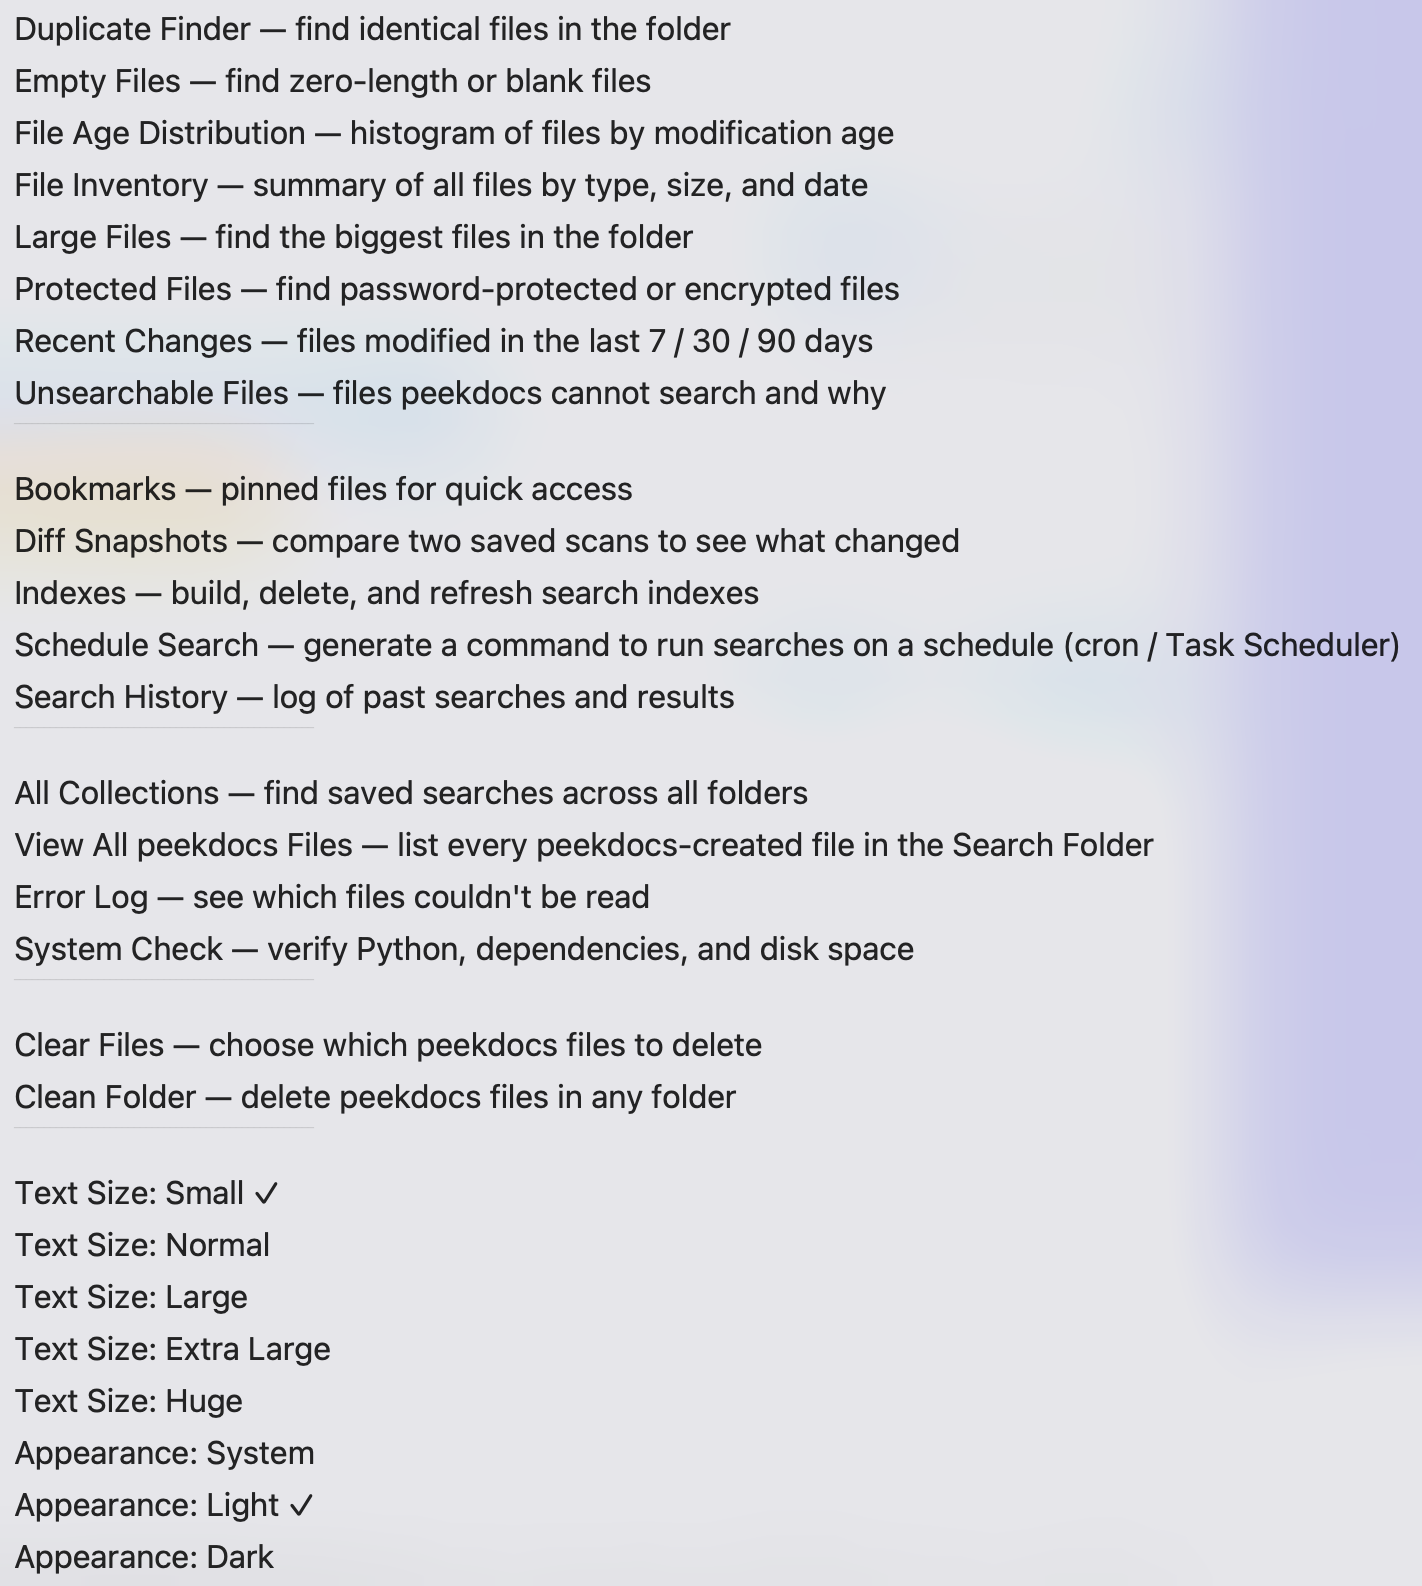
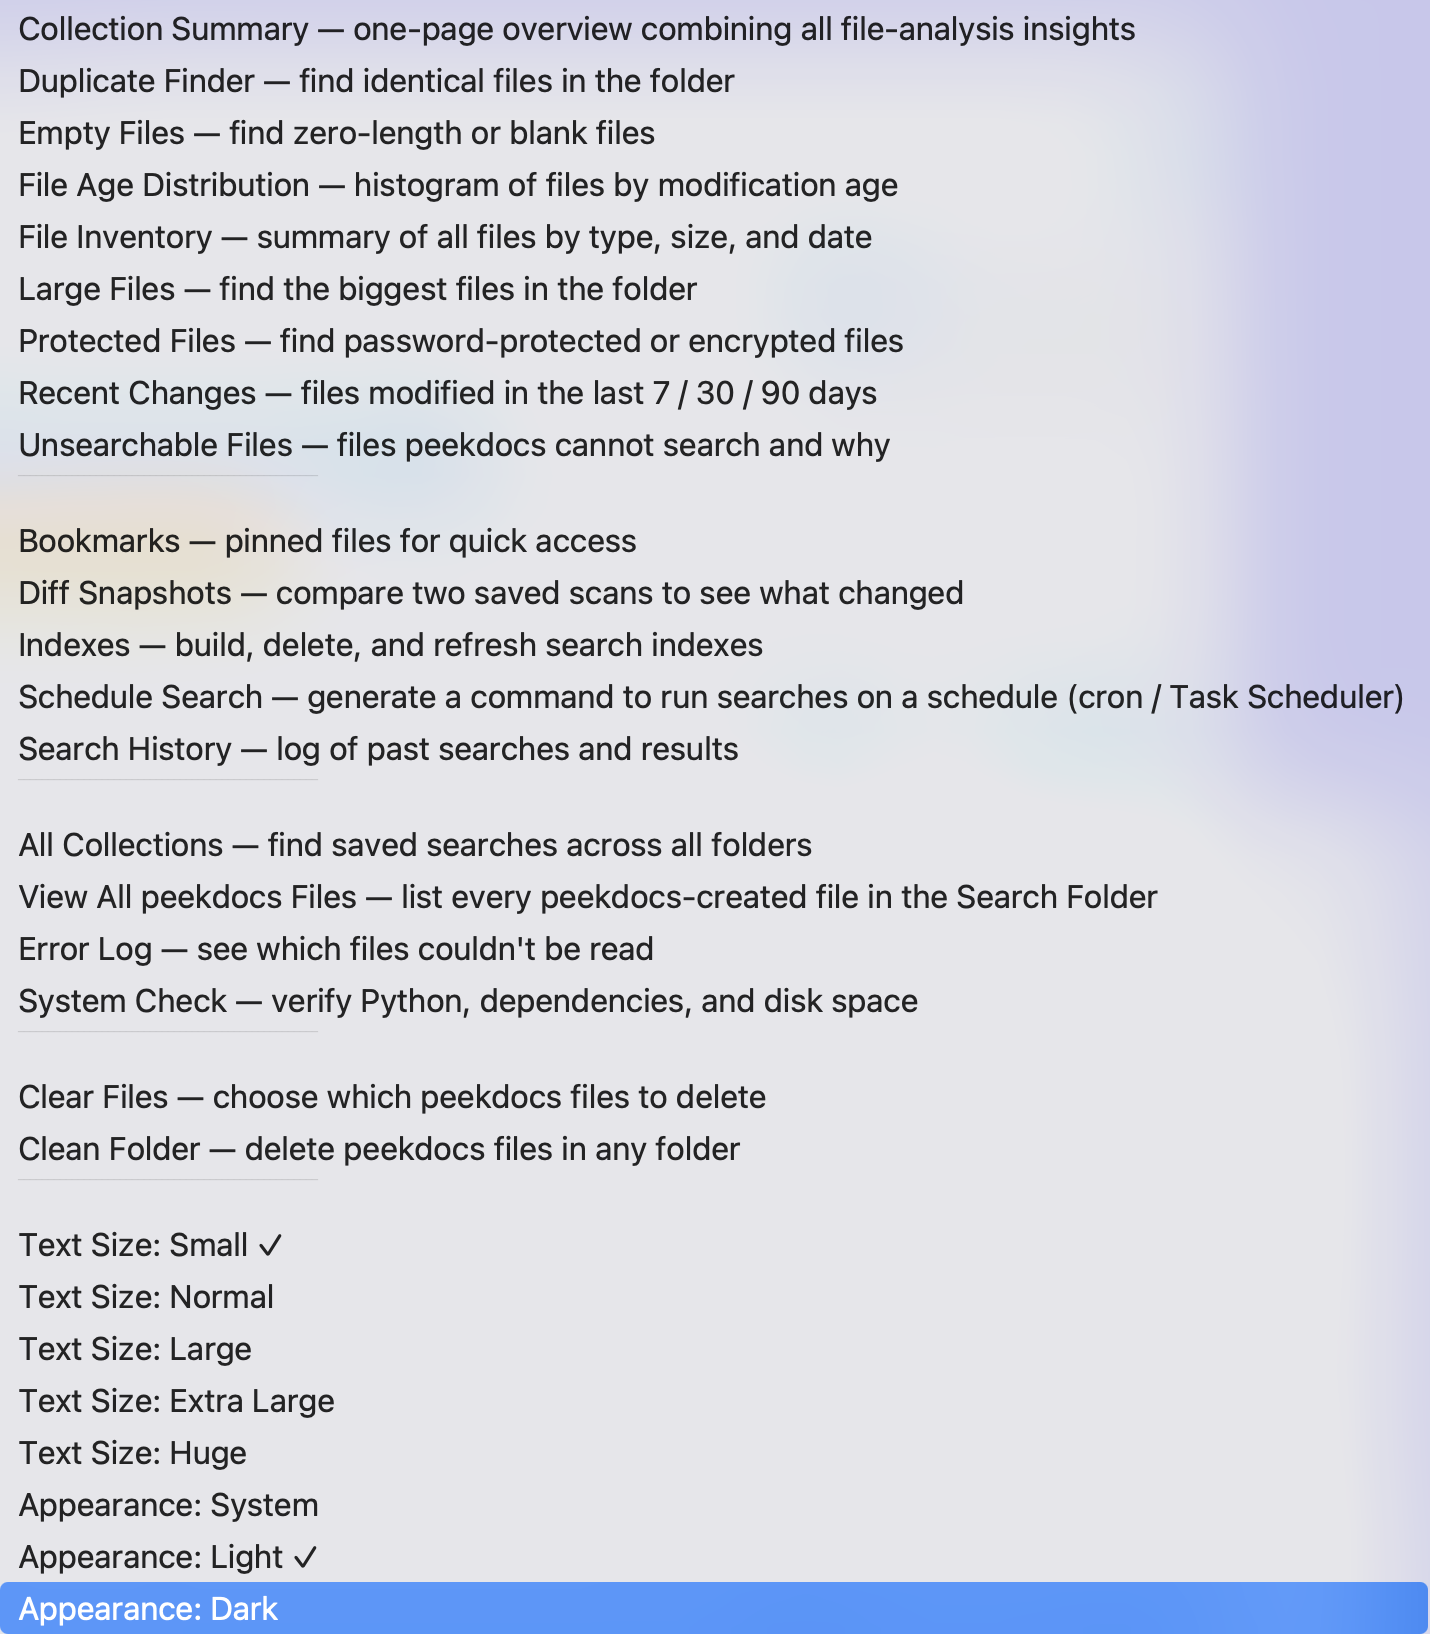
Collection Summary: clarify Max File Size source + roll out docs and screenshot
User-requested follow-ups to the new Collection Summary tool:

1. Clarify in the rendered report header that the Max File Size
   line comes from the user's Advanced Search Options setting, not
   a fixed peekdocs constant. The header line now reads:
   "Max File Size: 100 MB (set in Advanced Search Options;
   0 = no limit)". Same change as the Unsearchable Files
   description tweak from earlier — keeps the user-configurable
   nature of that threshold explicit wherever it surfaces.

2. Refreshed Tools menu screenshot now shows "Collection Summary —
   one-page overview combining all file-analysis insights" at the
   top of the Folder analysis group.

3. Doc references rolled out across three sites for parity with
   how File Age Distribution and Unsearchable Files were surfaced:

   - README Feature Highlights bullet: appended Collection Summary
     to the file-analysis list.
   - README Features long-form bullet: added Collection Summary as
     the first entry with the full section breakdown ("one-page
     overview combining file count, total size, oldest/newest,
     top file types, searchability breakdown, age distribution,
     largest files, and recent activity counts — fast, single-pass").
   - README Tools-menu detail bullets: new per-tool entry
     positioned alphabetically before File Inventory, naming every
     section the tool produces and noting it honors the Max File
     Size setting.
   - USER_GUIDE Tools menu reference table: new row with the full
[…]

diff --git a/peekdocs/gui/_mixin_tools.py b/peekdocs/gui/_mixin_tools.py
@@ -1823,7 +1823,7 @@ class ToolsMixin:
         lines.append(f"Folder:        {r['folder']}")
         recursive_str = "yes (including subfolders)" if r["recursive"] else "no"
         lines.append(f"Recursive:     {recursive_str}")
-        lines.append(f"Max File Size: {r['max_file_size_mb']} MB (0 = no limit)")
+        lines.append(f"Max File Size: {r['max_file_size_mb']} MB (set in Advanced Search Options; 0 = no limit)")
         lines.append(f"OCR enabled:   {r['use_ocr']}")
         lines.append(f"Scanned at:    {r['scan_time']}")
         lines.append("")

diff --git a/README.md b/README.md
@@ -22,7 +22,7 @@ peekdocs extracts and searches text from PDFs, Word documents, Excel spreadsheet
 - **Search Wizard** — 35 pre-built search types, no syntax to memorize
 - **Regex Search** — run up to 10 named regex patterns per collection, with unlimited saved collections. Switch between collections for different tasks (e.g., "code patterns", "log analysis", "invoice extraction") — or run any collection from Python via `run_regex_collection()`
 - **Search Suites** — group saved searches and run them all with one click — or from Python via `run_suite()`
-- **File analysis built in** — Duplicate Finder, Empty Files, File Age Distribution, File Inventory, Large Files, Protected Files, Recent Changes, and Unsearchable Files. Plus Bookmarks and Search History for recurring workflows.
+- **File analysis built in** — Collection Summary, Duplicate Finder, Empty Files, File Age Distribution, File Inventory, Large Files, Protected Files, Recent Changes, and Unsearchable Files. Plus Bookmarks and Search History for recurring workflows.
 - **Scriptable** — Python API, JSON output, meaningful exit codes, Diff Snapshots, Schedule Search, and a stable CLI surface for cron jobs, CI pipelines, and automation
 - **Cross-platform** — same features on macOS, Windows, and Linux
 
@@ -433,7 +433,7 @@ The combination of **local + privacy-first + grep-like power + OCR + regex workf
 - **Save and reload searches** — save a configured search by name and reload it later with one click. Each folder has its own collection of saved searches.
 - **Search Suites** — group multiple saved searches into a named suite and run them all at once with a single click. Each search runs independently with its own settings, and results are organized by search in a single combined highlighted report. Choose your output formats (TXT and DOCX are always generated; HTML, CSV, JSON, and PDF are optional — select them in the Search Suites popup). Create suites for recurring tasks like pre-publication checks, quarterly audits, onboarding reviews, or any workflow that involves the same set of searches. Suites are stored per folder, but the CLI finds them by name from anywhere: `peekdocs --suite "My Suite"` auto-locates the folder it was saved in, and `peekdocs --list-suites` shows every suite and where it lives. Available from the GUI (Tools → Search Suites) and CLI.
 - **Search index** — optional SQLite FTS5 index for faster repeated searches. Build once, search in sub-second time. Auto-refresh keeps the index current when files change.
-- **Built-in file analysis tools** — the Tools menu includes File Inventory (summary by type/size/date), File Age Distribution (histogram of files by modification age — useful for archives, document collections, and personal files), Duplicate Finder (identical files by content hash), Large Files, Empty Files, Recent Changes, Protected Files (password-encrypted detection), Unsearchable Files (categorizes everything peekdocs cannot search — unsupported types, oversized files relative to the Max File Size you set in Advanced Search Options, hidden / OS metadata, peekdocs-created — with counts per category), Search History (automatic log of past searches), Bookmarks (pin files for quick access), and App Files (lists every file peekdocs has created in the folder — results, reports, indexes, saved searches — so you always know what's yours and what's peekdocs').
+- **Built-in file analysis tools** — the Tools menu includes Collection Summary (one-page overview combining file count, total size, oldest/newest, top file types, searchability breakdown, age distribution, largest files, and recent activity counts — fast, single-pass), File Inventory (summary by type/size/date), File Age Distribution (histogram of files by modification age — useful for archives, document collections, and personal files), Duplicate Finder (identical files by content hash), Large Files, Empty Files, Recent Changes, Protected Files (password-encrypted detection), Unsearchable Files (categorizes everything peekdocs cannot search — unsupported types, oversized files relative to the Max File Size you set in Advanced Search Options, hidden / OS metadata, peekdocs-created — with counts per category), Search History (automatic log of past searches), Bookmarks (pin files for quick access), and App Files (lists every file peekdocs has created in the folder — results, reports, indexes, saved searches — so you always know what's yours and what's peekdocs').
 - **Offline and private** — your documents never leave your computer.
   - peekdocs never uploads, transmits, alters, moves, or deletes your files
   - No cloud, no accounts, no subscriptions, no internet connection required
@@ -491,6 +491,7 @@ All three share the same engine, flags, and 100+ file-type support. The matching
 - **Safe defaults** — files over 100 MB are automatically skipped to prevent slow searches and memory issues. Very large files (huge PDFs, massive spreadsheets, database exports) can take minutes to parse and may exhaust available memory. Skipped files appear in the **Excluded Files** list after each search, so you always know what was missed. To change the limit, set **Max File Size (MB)** in Advanced Search Options — or set it to 0 for no limit. Changing the limit automatically rebuilds the index on the next search. ZIP archives that would expand to over 500 MB are also skipped to prevent archive bombs. **Note:** raising Max File Size can sometimes result in *fewer* matched files, not more — a very large file with thousands of matches can consume most of the Max Matches budget (default 1,000), leaving fewer slots for matches from other files. If you see this, raise Max Matches too (or set it to 0 for unlimited)
 - **Excluded Files view** — after each search, click the **View N excluded file(s)** button to see exactly which files were skipped and why (unsupported type, prior output, oversized, hidden, etc.) — no more guessing why a `find` count differs from peekdocs's file count
 - **Tools menu** — built-in utilities beyond search:
+  - **Collection Summary** — one-page consolidated overview of the search folder. Single fast pass produces total file count + total size, oldest and newest file, subfolder count, top 10 file types by count, an Unsearchable-categories breakdown, the same 0-6mo / 1-3y / etc. age histogram as File Age Distribution, top 10 largest files, recent activity counts (last 30 / 90 days), and the empty-file count. Honors the Max File Size you set in Advanced Search Options. Plain-text report
   - **File Inventory** — instant summary of every file in a folder: total count, size breakdown by type, oldest and newest files
   - **Duplicate Finder** — finds identical files by content (not just name), shows how much space is wasted by extra copies
   - **Large Files** — shows the 50 biggest files so you can reclaim disk space

diff --git a/docs/USER_GUIDE.md b/docs/USER_GUIDE.md
@@ -511,6 +511,7 @@ The **Tools** button (top-right of the Search tab) opens a menu of built-in util
 
 | Tool | What it does |
 |------|-------------|
+| **Collection Summary** | One-page consolidated overview of the search folder, built in a single fast pass. Sections include: overview (total file count, total size, subfolder count, oldest and newest file), searchability breakdown (searchable count + percentage, plus the Unsearchable Files category counts), top 10 file types by count (with sizes), an ASCII histogram of the same six modification-age buckets used by File Age Distribution, recent activity (files modified in the last 30 / 90 days), top 10 largest files, and the empty-file count. Honors the Max File Size and OCR settings from Advanced Search Options. Duplicate detection and password-protected detection are deliberately skipped to keep the summary fast — the report points to the dedicated Duplicate Finder and Protected Files tools for those. Click **Save Report** to export as a plain-text file. |
 | **File Inventory** | Scans the folder and shows a summary: total file count, total size, breakdown by file type (extension, count, size), oldest and newest files with dates, and subfolder count. Click **Save Report** to export as a text file. |
 | **Duplicate Finder** | Finds groups of identical files by comparing content (MD5 hash), not just filenames. Two files with different names but identical content are flagged. Shows how many extra copies exist and how much disk space they waste. Click **Save Report** to export. |
 | **Large Files** | Lists the 50 largest files in the folder with their sizes. Useful for finding disk hogs — large files you may have forgotten about. |